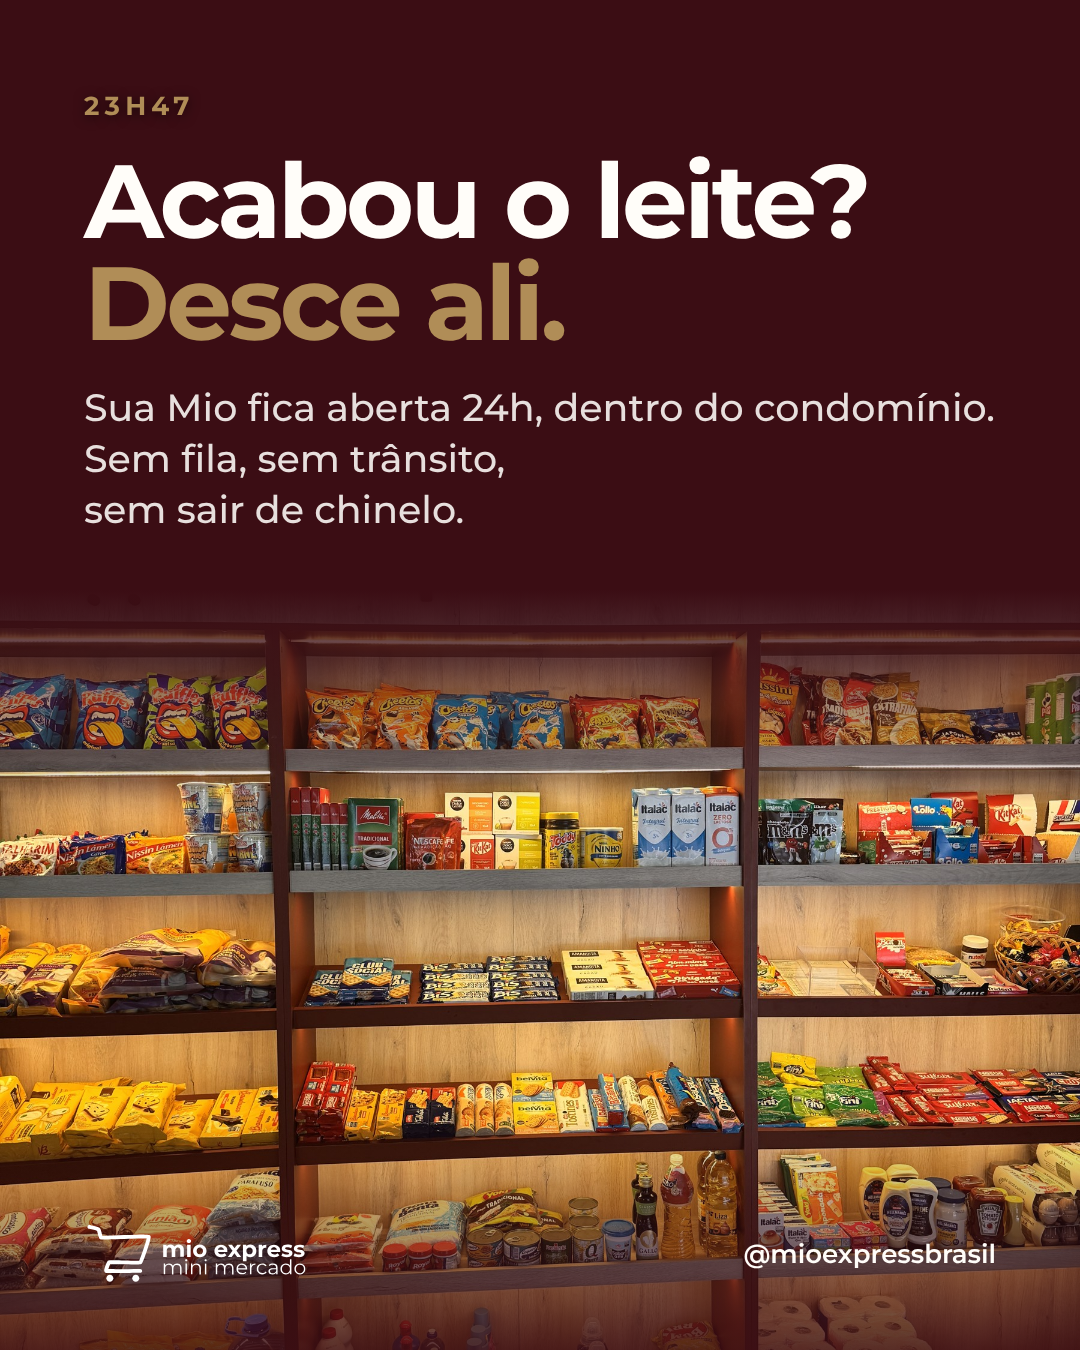
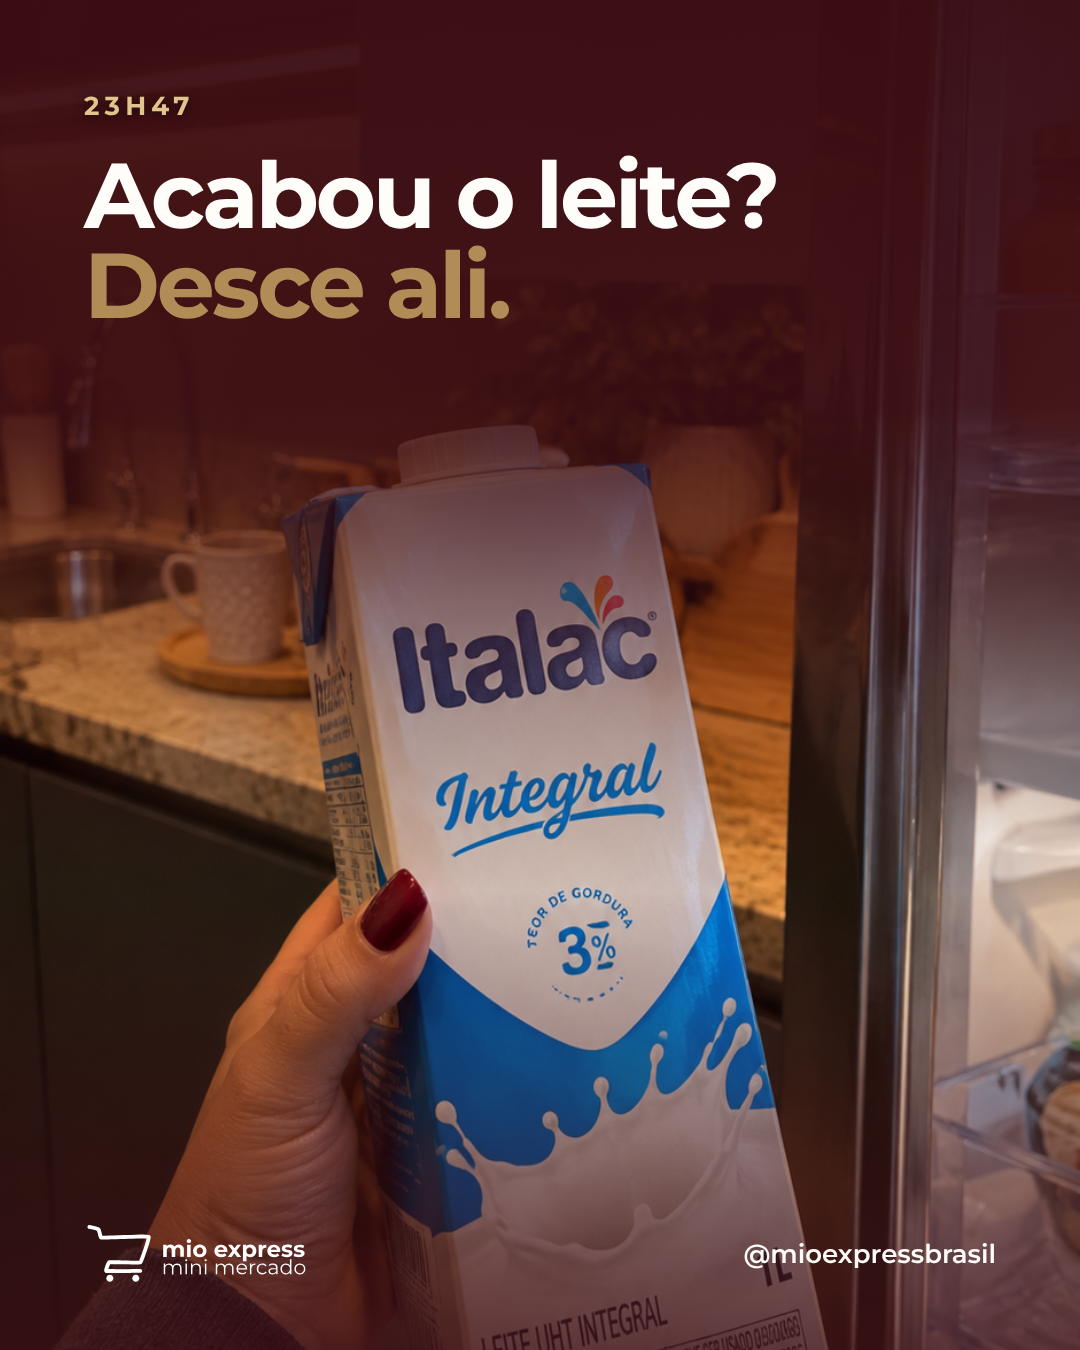
Leite: foto lifestyle (Italac) no post de 19/11 e no story
Claude-Session: https://claude.ai/code/session_01CwP1brNtxaKT1mUQXiiAjA

diff --git a/marketing/posts/02-morador-23h/.slide.html b/marketing/posts/02-morador-23h/.slide.html
@@ -40,7 +40,6 @@ p.lead { font-size: 38px; line-height: 1.35; font-weight: 500; opacity: .88; }
 .ft2 { position: absolute; left: 0; right: 0; bottom: 0; height: 760px; background-size: cover; }
 .ft2::after { content: ""; position: absolute; inset: 0; background: linear-gradient(180deg, #3b0d14 0%, rgba(59,13,20,0) 28%, rgba(59,13,20,0) 70%, rgba(59,13,20,.85) 100%); }
 .ft.baixo::after { background: linear-gradient(180deg, rgba(59,13,20,.5) 0%, rgba(59,13,20,0) 18%, rgba(59,13,20,0) 32%, rgba(59,13,20,.88) 52%, rgba(59,13,20,.97) 70%, #3b0d14 100%); }
-</style><body><div class="s" style="color:#fffdf9;background:#3b0d14"><div class="ft2" style="background-image:url(file:///home/user/mioexpress-site/assets/source/fotos/loja3-prateleiras.jpg);background-position:50% 62%"></div>
-        <div class="z"><p class="eyebrow">23h47</p>
-        <h1 class="mt1">Acabou o leite?<br><em>Desce ali.</em></h1>
-        <p class="lead mt1">Sua Mio fica aberta 24h, dentro do condomínio. Sem fila, sem trânsito,<br>sem sair de chinelo.</p></div><div class="rodape"><img src="file:///home/user/mioexpress-site/public/brand/logo-white.svg"><span>@mioexpressbrasil</span></div></div></body>
+</style><body><div class="s" style="color:#fffdf9;background:#3b0d14"><div class="ft" style="background-image:url(file:///home/user/mioexpress-site/assets/source/lifestyle/leite-italac.png);background-position:50% 64%"></div>
+        <div class="z"><p class="eyebrow" style="color:#e2c48f">23h47</p>
+        <h1 class="mt1" style="font-size:92px">Acabou o leite?<br><em>Desce ali.</em></h1></div><div class="rodape"><img src="file:///home/user/mioexpress-site/public/brand/logo-white.svg"><span>@mioexpressbrasil</span></div></div></body>
